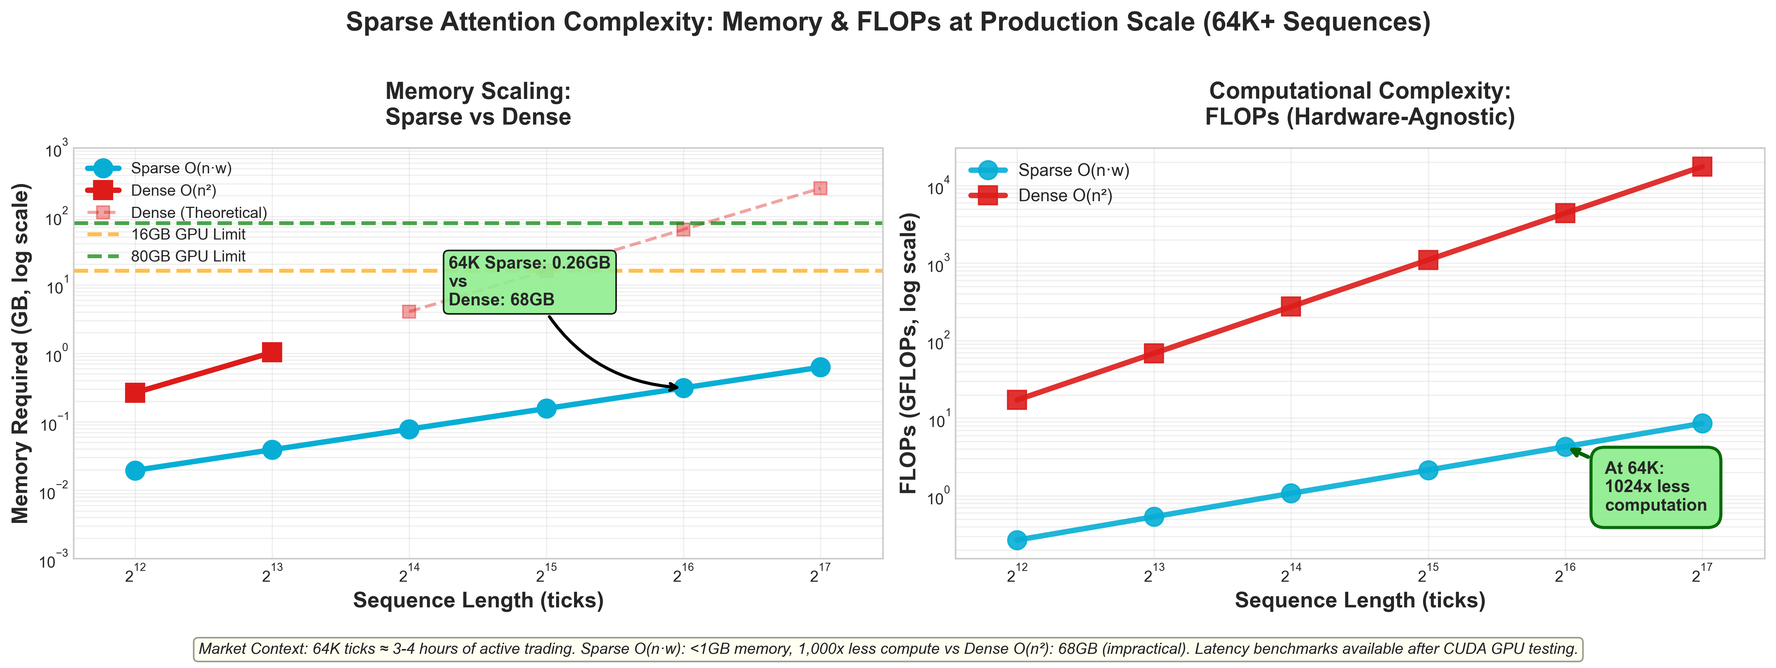
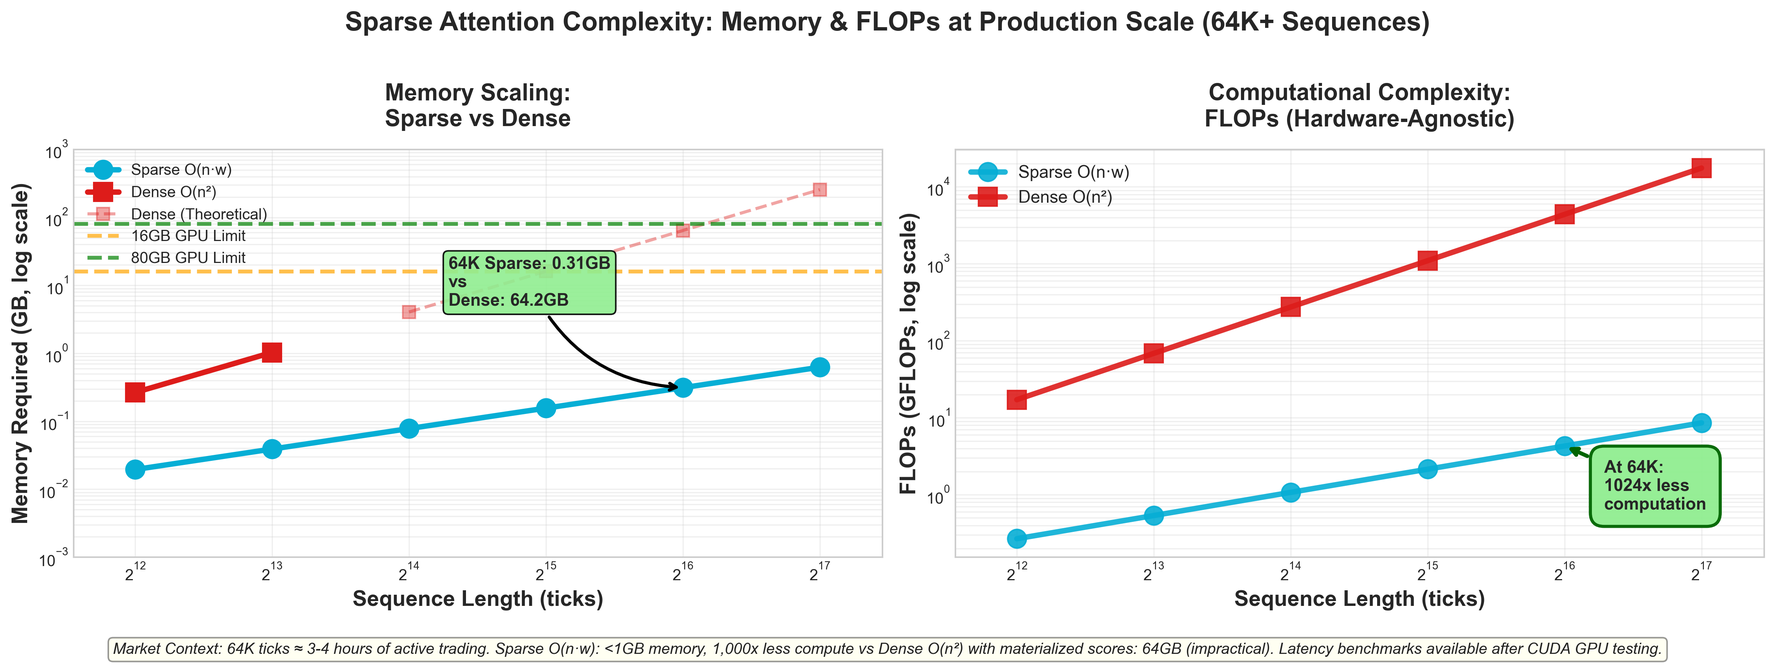
docs: revise whitepaper for October 2026 and align memory figures
Whitepaper:
- Date to October 2026; author name to "Timothy M. Fox"
- Correct Fixed Attention section (Child et al. pattern, not ETC)
- Clarify that 16 GB/head (64 GB for 4 heads) applies to naive dense
  attention; IO-aware kernels remove the memory but not the O(n^2) compute
- Reconcile tick-rate claims and the HFT conclusion with the implemented
  FinancialAttention pattern; soften unbenchmarked latency claims
- Add causal window, block-sparse, and financial pattern sections
- Add NSA, MoBA, and StreamingLLM to related work
- Notation and math fixes (d_v, masking gives exact zeros, bounds)

Chart and README:
- Compute chart annotations instead of hardcoding 0.26GB/68GB
- Include output tensor in printed stats; regenerate chart
- README sparse memory 0.31 GB (99.5%), add assumptions footnote

diff --git a/doc/sparse_attention_whitepaper.tex b/doc/sparse_attention_whitepaper.tex
@@ -16,26 +16,26 @@
 }
 
 \title{The Theory and Mathematics of Sparse Attention Mechanisms}
-\author{Timothy M Fox}
-\date{July 1, 2025}
+\author{Timothy M. Fox}
+\date{October 2026}
 
 \begin{document}
 
 \maketitle
 
 \begin{abstract}
-The Transformer architecture, underpinned by the self-attention mechanism, has become the de facto standard for a wide range of sequence processing tasks. However, the standard "dense" attention mechanism has a computational and memory complexity of \(O(n^2)\) with respect to the sequence length \(n\). This quadratic scaling makes processing long sequences computationally prohibitive. Sparse attention mechanisms have emerged as a powerful solution, approximating the dense attention matrix with a sparse one, thereby reducing the complexity to \(O(n \log n)\) or even \(O(n)\). This document explores the mathematical foundations of sparse attention, detailing its theoretical justification and the common sparsity patterns employed.
+The Transformer architecture, underpinned by the self-attention mechanism, has become the de facto standard for a wide range of sequence processing tasks. However, the standard ``dense'' attention mechanism has a computational complexity of \(O(n^2)\) with respect to the sequence length \(n\), and a naive implementation needs \(O(n^2)\) memory as well. This quadratic scaling makes processing long sequences computationally prohibitive. Sparse attention mechanisms have emerged as a powerful solution, approximating the dense attention matrix with a sparse one, thereby reducing the complexity to \(O(n \sqrt{n})\), \(O(n \log n)\), or even \(O(n)\). This document explores the mathematical foundations of sparse attention, detailing its theoretical justification and the common sparsity patterns employed, including a causal local-plus-dilated pattern designed for high-frequency financial data.
 \end{abstract}
 
 \section{Introduction}
 
 Since its introduction by Vaswani et al.~\cite{vaswani2017attention}, the Transformer architecture has revolutionized sequence modeling across natural language processing, computer vision, and time series analysis. At its core lies the self-attention mechanism, which computes pairwise interactions between all positions in a sequence, enabling the model to capture long-range dependencies without the sequential bottleneck of recurrent architectures.
 
-However, this expressive power comes at a steep computational cost. The standard attention mechanism requires computing an \(n \times n\) attention matrix for a sequence of length \(n\), resulting in \(O(n^2)\) time and space complexity. For modern applications requiring long context windows---such as document summarization (tens of thousands of tokens), genomic sequence analysis (millions of base pairs), or high-frequency financial tick data (thousands of events per second)---this quadratic scaling becomes a fundamental barrier.
+However, this expressive power comes at a steep computational cost. The standard attention mechanism requires computing an \(n \times n\) attention matrix for a sequence of length \(n\), resulting in \(O(n^2)\) time complexity and, in a naive implementation, \(O(n^2)\) space. For modern applications requiring long context windows---such as document summarization (tens of thousands of tokens), genomic sequence analysis (millions of base pairs), or high-frequency financial data (where the order book feed for a single liquid instrument can produce thousands of updates per second)---this quadratic scaling becomes a fundamental barrier.
 
-Consider a practical example from high-frequency trading: processing 64,000 ticks (roughly 3--4 hours of market data for a liquid instrument) with dense attention requires materializing a 64K \(\times\) 64K attention matrix with over 4 billion elements. At 32-bit floating point precision, this alone consumes 16 GB of GPU memory before accounting for gradients, activations, or model parameters. Even with modern datacenter GPUs, this makes real-time inference impractical.
+Consider a practical example from high-frequency trading: processing a 64K-tick window (65,536 trade ticks, roughly 3--4 hours of trading in a liquid instrument) with dense attention means scoring about 4.3 billion query--key pairs per attention head. A naive implementation materializes this matrix: at 32-bit floating point precision it consumes 16 GB of GPU memory per head, or 64 GB for a modest four-head layer, before accounting for gradients, activations, or model parameters. IO-aware kernels such as FlashAttention~\cite{dao2022flashattention} avoid storing the matrix by computing the softmax in tiles, which reduces memory to linear in \(n\), but they cannot remove the quadratic arithmetic. The same four-head layer with head dimension 64 still needs about 4.4 trillion floating-point operations per forward pass; even a GPU sustaining one petaFLOP per second would spend over 4 ms on that single layer. For latency-sensitive workloads, the quadratic cost itself, not only its memory footprint, is the barrier.
 
-\textbf{Sparse attention} addresses this challenge by exploiting a key observation: most attention weights are small and contribute negligibly to the output. By restricting each query to attend only to a carefully selected subset of keys, sparse attention reduces complexity to \(O(n \cdot w)\) or \(O(n \log n)\) while preserving much of the representational power of dense attention.
+\textbf{Sparse attention} addresses this challenge by exploiting a key empirical observation: in trained models, each query's attention tends to concentrate on a small number of keys, and most weights contribute little to the output. By restricting each query to attend only to a carefully selected subset of keys, sparse attention reduces complexity to \(O(n \cdot w)\) or \(O(n \log n)\) while preserving much of the representational power of dense attention.
 
 This paper provides a rigorous mathematical treatment of sparse attention mechanisms. We formalize the theoretical foundations, analyze common sparsity patterns, and discuss their implications for different domains. While we focus on general principles, we pay particular attention to applications in financial time series, where temporal locality and streaming requirements align naturally with sparse attention architectures.
 
@@ -49,21 +49,23 @@ The limitations of quadratic-complexity attention have motivated extensive resea
 
 \textbf{BigBird.} Zaheer et al.~\cite{zaheer2020big} provided theoretical analysis showing that sparse attention with random, window, and global components can approximate full attention. They proved that such patterns are Turing complete and universal approximators for sequence-to-sequence functions, establishing theoretical foundations for sparse attention mechanisms.
 
-\textbf{Other Notable Work.} Additional innovations include Reformer's locality-sensitive hashing for approximate attention~\cite{kitaev2020reformer}, Linformer's low-rank projections~\cite{wang2020linformer}, and FlashAttention's IO-aware algorithm~\cite{dao2022flashattention}, which optimizes dense attention but whose techniques can also accelerate sparse attention implementations.
+\textbf{Trainable, hardware-aligned sparsity.} More recent work learns which keys to attend to instead of fixing the pattern in advance, and operates on contiguous blocks of keys so that the computation maps onto GPU matrix units. Native Sparse Attention (NSA)~\cite{yuan2025nsa} combines compressed coarse-grained tokens, selected fine-grained blocks, and a sliding window, and is trained end to end; it matches or exceeds full attention on general and long-context benchmarks while running substantially faster at 64K tokens. MoBA~\cite{lu2025moba} applies a mixture-of-experts style gate to route each query to a few key blocks, can switch between full and sparse attention, and has been deployed in production for long-context serving. These results suggest that sparsity can be learned during pretraining rather than imposed afterward.
+
+\textbf{Other Notable Work.} Additional innovations include Reformer's locality-sensitive hashing for approximate attention~\cite{kitaev2020reformer}, Linformer's low-rank projections~\cite{wang2020linformer}, and FlashAttention's IO-aware algorithm~\cite{dao2022flashattention}, which optimizes dense attention but whose tiling techniques also underpin efficient sparse attention kernels. For streaming inference, Xiao et al.~\cite{xiao2024streaming} showed that a sliding window alone degrades once the earliest tokens leave the cache, and that keeping a few initial ``attention sink'' tokens restores stability, a further argument for combining local windows with a small set of persistent positions.
 
 Our presentation synthesizes these ideas, providing a unified mathematical framework for understanding sparse attention mechanisms and their domain-specific applications.
 
 \section{Background: The Standard Attention Mechanism}
 
-To understand sparse attention, we must first formalize the standard (dense) attention mechanism. Given a sequence of \(n\) input token embeddings, we project them into three matrices: Query (\(Q\)), Key (\(K\)), and Value (\(V\)), each of dimension \(\mathbb{R}^{n \times d_k}\), where \(d_k\) is the dimension of the keys and queries.
+To understand sparse attention, we must first formalize the standard (dense) attention mechanism. Given a sequence of \(n\) input token embeddings, we project them into three matrices: Query \(Q \in \mathbb{R}^{n \times d_k}\), Key \(K \in \mathbb{R}^{n \times d_k}\), and Value \(V \in \mathbb{R}^{n \times d_v}\), where \(d_k\) is the dimension of the keys and queries and \(d_v\) the dimension of the values. We write \(Q_i\), \(K_j\), and \(V_j\) for individual rows.
 
-The attention score, which determines how much focus each token places on other tokens, is computed as:
+The attention output, in which each token's representation is a weighted combination of the others', is computed as:
 \[
-\text{Attention}(Q, K, V) = \text{softmax}\left(\frac{QK^T}{\sqrt{d_k}}\right)V
+\text{Attention}(Q, K, V) = \text{softmax}\left(\frac{QK^\top}{\sqrt{d_k}}\right)V
 \]
 Let's break this down:
 \begin{enumerate}
-    \item \textbf{Similarity Scores:} The matrix product \(A = QK^T\) computes the dot product between every query vector \(Q_i\) and every key vector \(K_j\). This \(n \times n\) matrix, \(A\), represents the unscaled similarity scores.
+    \item \textbf{Similarity Scores:} The matrix product \(A = QK^\top\) computes the dot product between every query vector \(Q_i\) and every key vector \(K_j\). This \(n \times n\) matrix, \(A\), represents the unscaled similarity scores.
     \[
     A_{ij} = Q_i \cdot K_j
     \]
@@ -84,7 +86,7 @@ Let's break this down:
     O_i = \sum_{j=1}^{n} P_{ij} V_j
     \]
 \end{enumerate}
-The critical bottleneck here is the computation and storage of the \(n \times n\) attention matrix \(A\) (and subsequently \(P\)). For a sequence of length 64k, this matrix would have over 4 billion elements.
+The critical bottleneck here is the computation of the \(n \times n\) attention matrix \(A\) (and subsequently \(P\)). For a sequence of length 64K, this matrix has over 4 billion elements. Naive implementations also store it; IO-aware kernels avoid the storage but must still compute every entry.
 
 \section{The Theory of Sparse Attention}
 
@@ -96,56 +98,78 @@ Let \(S\) be a set of index pairs \((i, j)\) that we wish to compute attention f
 
 The sparse attention output for token \(i\) is computed by normalizing only over the restricted set \(S_i\):
 \[
-\text{SparseAttention}(Q, K, V)_i = \sum_{j \in S_i} \frac{\exp\left(\frac{Q_i^T K_j}{\sqrt{d_k}}\right)}{\sum_{k \in S_i} \exp\left(\frac{Q_i^T K_k}{\sqrt{d_k}}\right)} V_j
+\text{SparseAttention}(Q, K, V)_i = \sum_{j \in S_i} \frac{\exp\left(\frac{Q_i \cdot K_j}{\sqrt{d_k}}\right)}{\sum_{k \in S_i} \exp\left(\frac{Q_i \cdot K_k}{\sqrt{d_k}}\right)} V_j
 \]
 
-Note that the softmax normalization is computed \emph{only over the attended positions} \(j \in S_i\), not over all positions \(j \in \{1, \ldots, n\}\). This is critical: the denominator sums only over \(k \in S_i\), ensuring that attention weights sum to 1 over the sparse connectivity pattern.
+Note that the softmax normalization is computed \emph{only over the attended positions} \(j \in S_i\), not over all positions \(j \in \{1, \ldots, n\}\). This is critical: the denominator sums only over \(k \in S_i\), ensuring that attention weights sum to 1 over the sparse connectivity pattern. Because \(S_i\) is a set, each key appears in the sum at most once; an implementation that builds \(S_i\) as a list of indices from overlapping components must remove duplicates, or the repeated keys will be over-weighted.
 
-In practice, this is often implemented via masking. We set the attention scores for non-attended pairs to a large negative number (e.g., \(-\infty\)) before the softmax operation.
+In practice, this is often implemented via masking. We set the attention scores for non-attended pairs to \(-\infty\) (or, in finite precision, a large negative number) before the softmax operation.
 \[
 \text{ScaledA}'_{ij} =
 \begin{cases}
-\frac{Q_i K_j^T}{\sqrt{d_k}} & \text{if } j \in S_i \\
+\frac{Q_i \cdot K_j}{\sqrt{d_k}} & \text{if } j \in S_i \\
 -\infty & \text{if } j \notin S_i
 \end{cases}
 \]
-Applying softmax to this masked matrix ensures that \(P'_{ij} \approx 0\) for all \(j \notin S_i\).
+Since \(\exp(-\infty) = 0\), applying softmax to this masked matrix gives \(P'_{ij} = 0\) for all \(j \notin S_i\) (approximately zero when a finite mask value is used), and the result equals the sparse formula above.
 \[
 P'_{ij} = \frac{\exp(\text{ScaledA}'_{ij})}{\sum_{k=1}^{n} \exp(\text{ScaledA}'_{ik})}
 \]
-The key challenge, and where different sparse attention models differ, is in the choice of the sparsity set \(S\). The goal is to choose a set \(S\) such that \(|S| \in \mathcal{O}(n \log n)\) or \(\mathcal{O}(n)\) while minimizing the approximation error relative to the full attention matrix.
+Masking reproduces the sparse output exactly, but on its own it still computes all \(n^2\) scores. The savings come only when the kernel skips masked entries, either by computing the \(|S_i|\) scores of each row directly or by skipping tiles of the matrix that are entirely masked.
+
+The key challenge, and where different sparse attention models differ, is in the choice of the sparsity set \(S\). The goal is to choose a set \(S\) such that \(|S| \in O(n \log n)\) or \(O(n)\) while minimizing the approximation error relative to the full attention matrix.
 
 \section{Common Sparsity Patterns}
 
-The choice of the set \(S_i\) for each token \(i\) defines the "sparsity pattern." Several patterns have proven effective.
+The choice of the set \(S_i\) for each token \(i\) defines the ``sparsity pattern.'' Several patterns have proven effective.
 
 \subsection{Sliding Window (or Local) Attention}
 
-For many types of data (text, time series, images), nearby tokens are the most relevant. Sliding window attention formalizes this by allowing each token to attend only to its neighbors within a fixed window size \(w\).
+For many types of data (text, time series, images), nearby tokens are the most relevant. Sliding window attention formalizes this by allowing each token to attend only to its neighbors within a fixed window radius \(w\).
 \begin{quote}
 The set of attended indices for token \(i\) is:
 \[
-S_i = \{j \mid |i - j| \le w \}
+S_i = \{j \mid |i - j| \le w, \; 1 \le j \le n \}
 \]
 \end{quote}
-This is highly efficient, as each token only computes \(2w+1\) attention scores. The complexity is \(\mathcal{O}(n \cdot w)\), which is linear in \(n\) if \(w\) is constant.
+This is highly efficient, as each token computes at most \(2w+1\) attention scores. The complexity is \(O(n \cdot w)\), which is linear in \(n\) if \(w\) is constant.
+
+\subsection{Causal Sliding Window}
+
+Autoregressive models, and any model that must run on a live data stream, cannot let a position attend to the future. The causal variant keeps only the current position and the \(w - 1\) positions before it:
+\begin{quote}
+\[
+S_i = \{j \mid \max(1, i - w + 1) \le j \le i \}
+\]
+\end{quote}
+Each token computes at most \(w\) scores. In a streaming setting, only the last \(w\) keys and values need to be kept, so memory per layer is constant in the length of the stream.
 
 \subsection{Dilated (or Strided) Sliding Window}
 
-A limitation of the simple sliding window is that the receptive field is limited. A token can only see information from \(w\) tokens away. To expand the receptive field without increasing computation, the window can be "dilated."
+A limitation of the simple sliding window is that the receptive field of a single layer is limited: a token can only see information from at most \(w\) positions away, and stacking \(L\) layers extends this only to \(L \cdot w\). To expand the receptive field without increasing computation, the window can be ``dilated.''
 \begin{quote}
-With a dilation factor \(d > 0\) and a window radius \(w\), the set of attended indices is:
+With an integer dilation factor \(d \ge 1\) and a window radius \(w\), the set of attended indices is:
 \[
 S_i = \{j \mid j = i + k \cdot d, \; k \in \{-w, \ldots, -1, 0, 1, \ldots, w\}, \; 1 \le j \le n \}
 \]
 \end{quote}
-This pattern samples positions at intervals of \(d\), allowing the model to see up to \(w \cdot d\) positions away with the same \(O(2w+1)\) computational cost as a standard sliding window. The constraint \(1 \le j \le n\) ensures all indices remain valid within the sequence.
+This pattern samples positions at intervals of \(d\), allowing the model to see up to \(w \cdot d\) positions away with the same cost of at most \(2w+1\) scores per token as a standard sliding window. Setting \(d = 1\) recovers the standard sliding window, and the constraint \(1 \le j \le n\) ensures all indices remain valid within the sequence.
+
+\subsection{Block-Sparse Attention}
+
+GPUs compute dense matrix tiles far more efficiently than scattered individual entries. Block-sparse attention therefore partitions the sequence into blocks of size \(b\), writes \(B(i) = \lceil i / b \rceil\) for the block containing position \(i\), and makes attention decisions per pair of blocks. A simple local version lets each block attend to itself and its neighbors:
+\begin{quote}
+\[
+S_i = \{j \mid |B(i) - B(j)| \le 1, \; 1 \le j \le n \}
+\]
+\end{quote}
+Each token attends to at most \(3b\) keys, giving \(O(n \cdot b)\) complexity, and every computed tile is fully dense, so no work is spent on masked entries inside a tile. Learned methods such as NSA and MoBA keep this block structure but choose the blocks per query instead of fixing them in advance.
 
 \subsection{Global Attention}
 
 Some tokens in a sequence have broad, summary-level importance (e.g., the \texttt{[CLS]} token in BERT). These tokens should be able to attend to all other tokens, and all other tokens should be able to attend to them.
 
-In this pattern, we pre-select a small number of tokens to have "global" attention. Let \(G\) be the set of global token indices.
+In this pattern, we pre-select a small number of tokens to have ``global'' attention. Let \(G\) be the set of global token indices.
 \begin{quote}
 The full set of attended indices \(S_i\) for a token \(i\) is a union of its local window and the global tokens:
 \[
@@ -156,28 +180,48 @@ For a global token \(i \in G\), its attention is dense:
 S_i = \{j \mid 1 \le j \le n\}
 \]
 \end{quote}
-Models like the Longformer combine a sliding window with global attention on a few key tokens, achieving a balance between local context and global information integration.
+The total cost is \(O(n \cdot (w + |G|))\), which remains linear in \(n\) as long as the number of global tokens is bounded. Models like the Longformer combine a sliding window with global attention on a few key tokens, achieving a balance between local context and global information integration.
 
 \subsection{Fixed Attention}
 
-This pattern, used in models like the ETC (Extended Transformer Construction), pre-selects a fixed number of tokens that all other tokens will attend to, similar to global attention but with a different motivation. It's designed to mimic the structure of sentence parsing, where certain words act as syntactic hubs.
+The fixed pattern of Child et al.~\cite{child2019generating} divides the sequence into blocks of length \(l\) and designates the last \(c\) positions of every block as summary positions. Each token attends to every position in its own block and to every summary position:
+\begin{quote}
+\[
+S_i = \{j \mid \lceil j / l \rceil = \lceil i / l \rceil \} \cup \{j \mid j \in \{kl - c + 1, \ldots, kl\}, \; 1 \le k \le \lceil n / l \rceil \}
+\]
+\end{quote}
+(intersected with \(1 \le j \le n\), and with \(j \le i\) for autoregressive models). The summary positions act as relay points: information from any block reaches the rest of the sequence through them in two hops. Each token attends to \(l + c \lceil n/l \rceil\) positions, so choosing \(l \approx \sqrt{n}\) with \(c\) constant gives \(O(n \sqrt{n})\) total cost.
+
+\subsection{A Financial Pattern: Causal Local Window with Dilated Clusters}
+
+Tick data has structure at two time scales. Microstructure effects such as order flow imbalance and short-term volatility depend on the most recent few hundred ticks, while regime context such as the prevailing trend or volatility level is visible in sparser samples reaching much further back. A pattern for this setting combines a causal local window of size \(w\) with \(C\) dilated clusters of \(c\) consecutive ticks, spaced \(\sigma\) ticks apart:
+\begin{quote}
+\[
+L_i = \{j \mid \max(1, i - w + 1) \le j \le i \}, \qquad
+D_i = \bigcup_{k=1}^{C} \{j \mid i - k\sigma - c + 1 \le j \le i - k\sigma, \; j \ge 1\}
+\]
+\[
+S_i = L_i \cup D_i
+\]
+\end{quote}
+The pattern is causal, since every \(j \le i\), and each token attends to at most \(w + C c\) positions, so the cost is \(O(n \cdot (w + Cc))\). When \(\sigma\) is smaller than \(w\), some clusters overlap the local window; the set union counts those positions once, and an index-list implementation must skip them explicitly to keep the softmax correct. In the \texttt{ma-transformer} reference implementation the defaults are \(w = 512\), \(\sigma = 1000\), \(c = 8\), and \(C = 10\): each tick attends to at most 592 positions and sees about 10,000 ticks into the past.
 
 
 \section{Conclusion}
 
-Sparse attention mechanisms represent a principled approach to scaling Transformer architectures beyond the \(O(n^2)\) bottleneck of dense attention. By carefully restricting the connectivity pattern between queries and keys, sparse attention achieves linear or near-linear complexity---\(O(n \cdot w)\) for sliding windows, \(O(n \log n)\) for hierarchical patterns---while preserving much of the representational capacity of full attention.
+Sparse attention mechanisms represent a principled approach to scaling Transformer architectures beyond the \(O(n^2)\) bottleneck of dense attention. By carefully restricting the connectivity pattern between queries and keys, sparse attention achieves linear or near-linear complexity---\(O(n \cdot w)\) for sliding windows, \(O(n \sqrt{n})\) for the strided and fixed patterns of the Sparse Transformer, and \(O(n \log n)\) for hashing-based schemes such as Reformer---while preserving much of the representational capacity of full attention.
 
-The mathematical framework presented in this paper unifies several influential sparse attention architectures. The key insight is that the softmax normalization need only be computed over a carefully chosen subset \(S_i\) of positions for each query \(i\). The choice of \(S_i\) encodes domain-specific inductive biases: sliding windows exploit temporal locality, global attention provides aggregation points for summary information, and dilated patterns extend receptive fields without increasing computational cost.
+The mathematical framework presented in this paper unifies several influential sparse attention architectures. The key insight is that the softmax normalization need only be computed over a carefully chosen subset \(S_i\) of positions for each query \(i\). The choice of \(S_i\) encodes domain-specific inductive biases: sliding windows exploit temporal locality, global attention provides aggregation points for summary information, dilated patterns extend receptive fields without increasing computational cost, and block-sparse patterns match the way hardware performs matrix multiplication.
 
 \textbf{Domain-Specific Applications.} The effectiveness of sparse attention patterns depends critically on the structure of the underlying data. For natural language, local context within a sentence combined with document-level global tokens (as in Longformer) captures both fine-grained syntax and broad semantic dependencies. For genomic sequences, strided patterns can capture regulatory elements separated by thousands of base pairs. For financial time series, sliding windows align naturally with the temporal locality of market microstructure.
 
-\textbf{Financial Time Series and HFT.} High-frequency trading applications present an ideal use case for sparse attention. Order book dynamics exhibit strong temporal locality: the current state depends primarily on recent ticks, with occasional dependency on significant events (large trades, liquidity shocks) further back in history. A hybrid sparse attention pattern---local sliding window for capturing microstructure dynamics, plus global attention on detected event markers---can process sequences of 64K+ ticks (3--4 hours of data) with memory footprints under 1 GB, compared to 64+ GB for dense attention. This enables models to capture full trading session dynamics while maintaining the sub-millisecond inference latency required for real-time deployment.
+\textbf{Financial Time Series and HFT.} High-frequency trading applications present an ideal use case for sparse attention. Order book dynamics exhibit strong temporal locality: the current state depends primarily on recent ticks, with occasional dependency on regime context further back in history. The causal local-plus-dilated pattern described above captures both, and it can process sequences of 64K ticks (3--4 hours of trading) with modest memory: with the default parameters and four heads at 32-bit precision, the attention scores occupy about 0.6 GB, compared to roughly 64 GB (16 GB per head) for a dense attention matrix. Its compute falls by the same factor of roughly 110. This brings sub-millisecond inference within reach for full-session context, although end-to-end latency depends on the kernel implementation and remains to be confirmed by benchmarks.
 
-\textbf{Implementation Considerations.} While this paper focuses on mathematical foundations, practical implementations require careful attention to computational efficiency. Sparse attention patterns enable significant asymptotic improvements, but realizing these gains requires kernel-level optimizations: fused attention operations to minimize memory traffic, blocked computation to maximize cache reuse, and specialized data structures to avoid irregular memory access patterns. These implementation details, while beyond our scope here, are critical for achieving production-grade performance.
+\textbf{Implementation Considerations.} While this paper focuses on mathematical foundations, practical implementations require careful attention to computational efficiency. Sparse attention patterns enable significant asymptotic improvements, but realizing these gains requires kernel-level optimizations: fused attention operations to minimize memory traffic, blocked computation to maximize cache reuse, and specialized data structures to avoid irregular memory access patterns. Recent systems such as NSA and MoBA show that when the sparsity pattern is designed around these constraints from the start, sparse attention delivers real wall-clock speedups at long context lengths, not only lower operation counts. These implementation details, while beyond our scope here, are critical for achieving production-grade performance.
 
 The continued development of sparse attention mechanisms---and their integration with complementary techniques like linear attention, low-rank approximations, and IO-aware algorithms---promises to extend Transformer applicability to increasingly long sequences and latency-sensitive domains.
 
-\begin{thebibliography}{9}
+\begin{thebibliography}{99}
 
 \bibitem{vaswani2017attention}
 A. Vaswani, N. Shazeer, N. Parmar, J. Uszkoreit, L. Jones, A. N. Gomez, L. Kaiser, and I. Polosukhin.
@@ -213,6 +257,21 @@ arXiv preprint arXiv:2006.04768, 2020.
 T. Dao, D. Y. Fu, S. Ermon, A. Rudra, and C. Ré.
 \textit{FlashAttention: Fast and memory-efficient exact attention with IO-awareness}.
 In \textit{Advances in Neural Information Processing Systems (NeurIPS)}, 2022.
+
+\bibitem{xiao2024streaming}
+G. Xiao, Y. Tian, B. Chen, S. Han, and M. Lewis.
+\textit{Efficient streaming language models with attention sinks}.
+In \textit{International Conference on Learning Representations (ICLR)}, 2024.
+
+\bibitem{yuan2025nsa}
+J. Yuan, H. Gao, D. Dai, J. Luo, L. Zhao, Z. Zhang, Z. Xie, et al.
+\textit{Native sparse attention: Hardware-aligned and natively trainable sparse attention}.
+In \textit{Proceedings of the 63rd Annual Meeting of the Association for Computational Linguistics (ACL)}, 2025.
+
+\bibitem{lu2025moba}
+E. Lu, Z. Jiang, J. Liu, Y. Du, T. Jiang, C. Hong, S. Liu, W. He, et al.
+\textit{MoBA: Mixture of block attention for long-context LLMs}.
+In \textit{Advances in Neural Information Processing Systems (NeurIPS)}, 2025.
 
 \end{thebibliography}
 

diff --git a/generate_theoretical_64k_chart.py b/generate_theoretical_64k_chart.py
@@ -196,7 +196,7 @@ def generate_64k_theoretical_chart(include_timing_panel=False):
 
     # Annotations
     idx_64k = np.where(seq_lengths == 65536)[0][0]
-    ax_mem.annotate('64K Sparse: 0.26GB\nvs\nDense: 68GB',
+    ax_mem.annotate(f'64K Sparse: {sparse_memory[idx_64k]:.2f}GB\nvs\nDense: {dense_memory[idx_64k]:.1f}GB',
                    xy=(65536, sparse_memory[idx_64k]), xytext=(20000, 5),
                    fontsize=11, weight='bold',
                    bbox=dict(boxstyle='round', facecolor='lightgreen', alpha=0.9),
@@ -261,9 +261,11 @@ def generate_64k_theoretical_chart(include_timing_panel=False):
             'Sparse attention enables full session microstructure modeling within HFT latency constraints.'
         )
     else:
+        idx_64k = np.where(seq_lengths == 65536)[0][0]
         footer_text = (
             'Market Context: 64K ticks ≈ 3-4 hours of active trading. '
-            'Sparse O(n·w): <1GB memory, 1,000x less compute vs Dense O(n²): 68GB (impractical). '
+            f'Sparse O(n·w): <1GB memory, 1,000x less compute vs Dense O(n²) with materialized scores: '
+            f'{dense_memory[idx_64k]:.0f}GB (impractical). '
             'Latency benchmarks available after CUDA GPU testing.'
         )
     fig.text(0.5, 0.02, footer_text, ha='center', fontsize=10, style='italic',
@@ -305,8 +307,9 @@ def main():
     window = 64
 
     # Memory
-    sparse_mem = (1 * 4 * seq_64k * window * 4 + 3 * seq_64k * 4 * 64 * 4) / (1024**3)
-    dense_mem = (1 * 4 * seq_64k * seq_64k * 4 + 3 * seq_64k * 4 * 64 * 4) / (1024**3)
+    # Same model as calc_*_memory_gb: attention scores + Q/K/V + output
+    sparse_mem = (1 * 4 * seq_64k * window * 4 + 4 * seq_64k * 4 * 64 * 4) / (1024**3)
+    dense_mem = (1 * 4 * seq_64k * seq_64k * 4 + 4 * seq_64k * 4 * 64 * 4) / (1024**3)
 
     print(f"💾 Memory:")
     print(f"   Sparse: {sparse_mem:.2f} GB")

diff --git a/README.md b/README.md
@@ -10,12 +10,14 @@
 
 | Metric | Dense Attention O(n²) | Sparse Attention O(n·w) | Advantage |
 |--------|----------------------|-------------------------|-----------|
-| **Memory** | 64.2 GB | 0.25 GB | **99.6% reduction** |
+| **Memory** | 64.2 GB* | 0.31 GB | **99.5% reduction** |
 | **Computation** | 4,398 GFLOPs | 4.3 GFLOPs | **1,000x less compute** |
 | **Feasibility** | ❌ Impractical (OOM on 16GB GPU) | ✅ Runs on consumer hardware |
 | **Latency** | TBD (CUDA benchmarks) | TBD (CUDA benchmarks) | **Subquadratic scaling** |
 
-**Key Insight:** Dense attention's O(n²) complexity becomes **completely impractical** for production HFT sequences. At 64K ticks (a typical morning session), dense attention requires 64GB memory—making real-time inference impossible. Sparse attention's O(n·w) complexity enables the same inference with <1GB memory and 1,000x less computation.
+\*Theoretical, fp32, batch 1, 4 heads, head dim 64, window 64: attention scores plus Q/K/V and output. Dense assumes the full score matrix is materialized (16 GB per head). See `generate_theoretical_64k_chart.py`.
+
+**Key Insight:** Dense attention's O(n²) complexity becomes **completely impractical** for production HFT sequences. At 64K ticks (a typical morning session), a naive dense implementation needs 64GB just for its attention scores. IO-aware kernels like FlashAttention avoid storing those scores, but they still perform all ~4.4 trillion operations per layer, which rules out real-time inference. Sparse attention's O(n·w) complexity enables the same inference with <1GB memory and 1,000x less computation.
 
 > **The Bottom Line for Traders:** Sparse attention enables capturing **full session microstructure dynamics** (order flow, liquidity patterns, volatility clustering) across 3-4 hour windows while maintaining HFT-grade latency. Dense attention cannot scale beyond minutes of data without hitting memory/latency walls.
 
